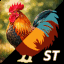
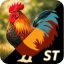
Prepare future main menu button

diff --git a/SLImTag.py b/SLImTag.py
@@ -332,9 +332,10 @@ class SegmentationApp(ctk.CTk):
                                                                   size=(16, 16))
                                          }
         
+        self.icons_dict["MenuIcon"] = ctk.CTkImage(light_image=Image.open("images/icons/MenuIcon.png").convert("RGBA"), size=(31, 31))
+        
         splash.step(5)
-        
-        
+
         #%% Top Menu
         self.menu_bar = tk.Menu(self)
         self.set_menu_theme(self.menu_bar, self.slimtag_config["main"]["appearance"])
@@ -437,11 +438,33 @@ class SegmentationApp(ctk.CTk):
         self.grid_columnconfigure(1, weight=1)
         
         #%% Left panel: Tools
+        # Frame for main menu
+        self.main_menu_frame = ctk.CTkFrame(self.left_panel, corner_radius=0)
+        self.main_menu_frame.grid(row=0, column=0, sticky="nsew", padx=0, pady=(0, 5))
+        
+        # label created as fake button for consistency reasons
+        self.main_menu_label = ctk.CTkButton(self.main_menu_frame,
+                                             width=44, height=44,
+                                             text="",
+                                             fg_color="transparent",
+                                             border_width=0,
+                                             hover=False,
+                                             state="disabled",
+                                             command=None)
+        self.main_menu_label.grid(row=0, column=0, sticky="nsew", padx=(4, 2), pady=4)
+        # actual main menu
+        self.main_menu_btn = ctk.CTkButton(self.main_menu_frame,
+                                           width=44, height=44,
+                                           text="", image=self.icons_dict["MenuIcon"],
+                                           fg_color="transparent",
+                                           command=None)
+        self.main_menu_btn.grid(row=0, column=1, sticky="nsew", padx=(2, 4), pady=4)
+        
         # Frames for buttons
         self.tools_btn_frame = {i: ctk.CTkFrame(self.left_panel, corner_radius=0) for i in range(5)}
-        frame_paddings = [(0, 5)] + 3*[5] + [(5, 0)]
+        frame_paddings = 4*[5] + [(5, 0)]
         for i in range(5):
-            self.tools_btn_frame[i].grid(row=i, column=0, sticky="nsew", padx=0, pady=frame_paddings[i])
+            self.tools_btn_frame[i].grid(row=i+1, column=0, sticky="nsew", padx=0, pady=frame_paddings[i])
         
         # Buttons
         # TODO all commands, in particular add the "right-click" that are a different tool now